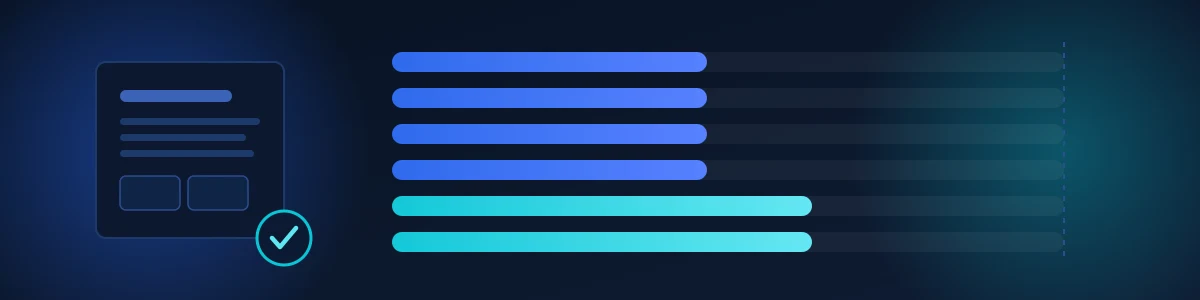
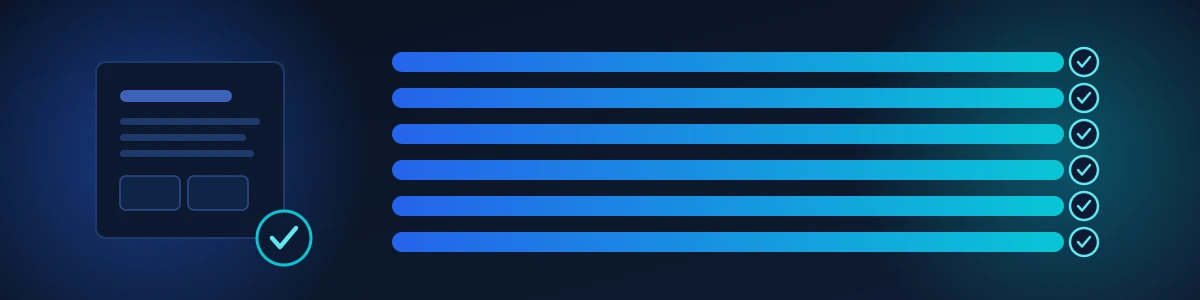
SEO-POS-1 S5, revisión: quita el reparto de puntos, deja las seis dimensiones
Founder review on the first draft: publish the six dimensions and their
behavioural thresholds (title 15-70 chars, description 50-160, freshness
180/540 days, 300 visible words, one h1, two h2 minimum), but not the point
allocation between them. That split is product methodology, not a public best
practice, and giving it away hands a competitor the scoring formula for
nothing the reader didn't already get from the six named dimensions.

Removed every "— N puntos" from section titles and body copy, including the
freshness decay example (15→8→0) and the 85/100 rescaling numbers in the
undated-page section, which is rewritten to explain the exclude-and-rescale
method without citing the actual point counts. Same correction applied to the
posts.ts description, the content-calendar note, the plan's C5 row, and log
§68 (rewritten in place rather than superseded — the PR hasn't merged, so
nobody else's session has treated the old version as settled fact).

The cover SVG encoded the real weights visually (bar width proportional to
points), so it leaked the same information the text no longer states. Redrawn
with six equal-width bars, each with its own checkmark, and re-rasterized.

Added a permanent guard in article-recipes.test.ts: no MDX pattern stops a
future session from reintroducing "— 15 puntos" in a section title when
editing this piece or copying its pattern for a new one, so a text-match test
now fails on any point count in a section heading or a 100/85-point reference.
[…]

Changed region(s): [[0.3083, 0.15, 0.925, 0.87]]

diff --git a/lib/blog/article-recipes.test.ts b/lib/blog/article-recipes.test.ts
@@ -318,3 +318,30 @@ describe("cada artículo enlaza a su propio cluster", () => {
     });
   }
 });
+
+/**
+ * SEO-POS-1 Fase C, S5, revisión (log §68): el borrador de
+ * que-es-una-auditoria-geo publicaba el reparto de puntos real de
+ * `lib/web-audit/page-checks.ts` (15/15/15/15/20/20). El fundador decidió
+ * que eso es metodología del producto, no buena práctica pública, y pidió
+ * quitarlo — dimensiones y umbrales de comportamiento sí, reparto de puntos
+ * no.
+ *
+ * Nada impedía que una sesión futura, al tocar este artículo o al copiar su
+ * patrón para uno nuevo, reintrodujera "— 15 puntos" en un título de sección.
+ * No hay compilador que lo pille: es MDX, y el número encajaría con
+ * naturalidad al lado de cada dimensión. Este test es la memoria que una
+ * revisión de founder necesita para no perderse en el siguiente refresco.
+ */
+describe("que-es-una-auditoria-geo no publica el reparto de puntos del producto", () => {
+  const source = readArticle("que-es-una-auditoria-geo");
+
+  it("ninguna sección lleva un recuento de puntos en el título", () => {
+    expect(source).not.toMatch(/—\s*\d+\s*puntos/i);
+  });
+
+  it("no afirma un total sobre 100 ni un subtotal parcial como 85", () => {
+    expect(source).not.toMatch(/\bsobre\s+100\b/i);
+    expect(source).not.toMatch(/\b85\s*puntos\b/i);
+  });
+});

diff --git a/lib/blog/posts.ts b/lib/blog/posts.ts
@@ -181,7 +181,7 @@ export const BLOG_POSTS: BlogPost[] = [
     slug: "que-es-una-auditoria-geo",
     title: "Qué es una auditoría GEO (y el checklist para hacerla tú mismo)",
     description:
-      "Una auditoría SEO pregunta si puedes posicionar; una GEO, si te pueden citar. Las seis dimensiones que se revisan, con sus pesos reales sobre 100, y un checklist de trece puntos para pasarlo a mano.",
+      "Una auditoría SEO pregunta si puedes posicionar; una GEO, si te pueden citar. Las seis dimensiones que se revisan, con sus umbrales exactos, y un checklist de trece puntos para pasarlo a mano.",
     datePublished: "2026-08-13",
     coverIcon: "check",
     coverImage: "/blog/que-es-una-auditoria-geo/cover.webp",

diff --git a/docs/brand/design-decisions-log.md b/docs/brand/design-decisions-log.md
@@ -6415,34 +6415,39 @@ quedan marcadas para una pasada con este mismo encuadre.
 
 ---
 
-## 68. Publicar los pesos de la auditoría, no solo el resultado (SEO-POS-1, S5, 2026-08-13)
+## 68. Las seis dimensiones sí, los pesos no: dónde está la línea (SEO-POS-1, S5, 2026-08-13)
 
 **Pieza.** `/blog/que-es-una-auditoria-geo`, cluster `playbooks`. Cubre el
 cluster de keywords nº 5 del plan y enlaza la feature real de auditoría web.
 
-**La decisión de fondo: publicar el desglose.** El artículo no da una lista
-genérica de buenas prácticas — publica **los pesos reales** de
-`lib/web-audit/page-checks.ts`: datos estructurados 15, formato de respuesta
-15, metadatos 15, frescura 15, indexabilidad 20, citabilidad 20, con los
-umbrales exactos de cada sub-comprobación (título 15-70 caracteres, descripción
-50-160, frescura 180/540 días, 300 palabras visibles, un solo `<h1>`, dos
-`<h2>` mínimo).
+**Primera versión, y por qué se corrigió.** El borrador inicial publicaba **los
+pesos reales** de `lib/web-audit/page-checks.ts` — datos estructurados 15,
+formato de respuesta 15, metadatos 15, frescura 15, indexabilidad 20,
+citabilidad 20 — con el argumento de que una puntuación cuyo reparto no se
+enseña es un número que hay que creerse. El fundador lo revisó y decidió lo
+contrario: publicar las seis dimensiones y sus umbrales de comportamiento, pero
+no el reparto de puntos exacto entre ellas — es metodología del producto, y
+enseñarla entera se la regala a cualquier competidor en una tarde sin que el
+lector gane nada que no tuviera ya con las seis dimensiones nombradas.
 
-Enseñarlos tiene un coste evidente —cualquiera puede replicar la comprobación
-sin pagarnos— y se asume a propósito. Una puntuación cuyo reparto no se enseña
-es un número que hay que creerse, y el argumento entero de esta categoría es
-que el cliente deje de creerse números. Además, lo que se puede replicar a mano
-es la auditoría de **una** página; el producto la pasa sobre la web entera y la
-cruza con la medición en motores, que es donde está el trabajo real.
+**Dónde queda la línea, en la práctica.** Se publican los **umbrales de
+comportamiento** — título 15-70 caracteres, descripción 50-160, frescura
+180/540 días, 300 palabras visibles, un solo `<h1>`, dos `<h2>` mínimo — porque
+son buenas prácticas verificables por cualquiera con el código fuente delante,
+no una ventaja competitiva. No se publica el **reparto de puntos** entre
+dimensiones ni entre sub-comprobaciones, ni en el texto ni en la portada: la
+primera versión de la imagen codificaba el peso real en la anchura de cada
+barra, así que se rehízo con las seis barras iguales antes de publicar.
 
 **Lo que separa esta pieza de un post de checklist cualquiera:** la sección
-sobre la página sin fecha. Puntuar 0 de frescura cuando no se encuentra ninguna
-fecha convierte una *ausencia de dato* en un *veredicto negativo*, así que el
-score se calcula sobre los 85 puntos restantes y se reescala a 100. Es una
-decisión de método real del producto, no una opinión, y explicarla demuestra
-criterio en vez de afirmarlo. Se generaliza en el artículo a la regla que ya
-rige `global-score.ts`: un componente sin valor se excluye de la media y se
-dice, nunca se sustituye por cero.
+sobre la página sin fecha. Puntuar la frescura como cero cuando no se encuentra
+ninguna fecha convierte una *ausencia de dato* en un *veredicto negativo*, así
+que esa dimensión se excluye del cálculo y el resto se reescala a 100 — sin
+citar el número de puntos que se excluyen. Es una decisión de método real del
+producto, no una opinión, y explicarla demuestra criterio en vez de afirmarlo.
+Se generaliza en el artículo a la regla que ya rige `global-score.ts`: un
+componente sin valor se excluye de la media y se dice, nunca se sustituye por
+cero.
 
 **Declara dónde acaba, y eso es lo que la hace citable.** Una auditoría técnica
 dice si tu página *puede* ser citada, no si *lo es*. Sin esa frase el artículo
@@ -6458,9 +6463,9 @@ dónde acaba la auditoría, y concede sobre nuestro propio producto, no a favor
 de un competidor.
 
 **Portada.** SVG dibujado en el repo y rasterizado a WebP (§47: un `og:image`
-en SVG deja la tarjeta social en blanco). No es decorativa: la anchura de cada
-barra es proporcional a los puntos reales de esa dimensión, así que la imagen
-es el mismo dato que el artículo (ADR 0026, "ningún visual es decorativo").
+en SVG deja la tarjeta social en blanco). Seis barras de igual anchura, cada
+una con su propia marca de comprobación — deliberadamente sin variar tamaños
+entre ellas, por el mismo motivo que el texto no reparte puntos.
 
 **Descubribilidad:** SSOT del blog, fixture del self-check y journey del
 piloto, los tres en este PR — lo exige el guardián de §62.

diff --git a/docs/content-calendar.md b/docs/content-calendar.md
@@ -201,22 +201,21 @@ describen por estructura de coste (módulo + suite), sin cifra cerrada, porque
 las fuentes públicas se contradicen entre sí.
 
 **S5 — hecho (2026-08-13).** `/blog/que-es-una-auditoria-geo`, cluster
-`playbooks`. La pieza publica **los pesos reales** de la auditoría técnica
-(`lib/web-audit/page-checks.ts`), no una lista genérica de buenas prácticas:
-datos estructurados 15, formato de respuesta 15, metadatos 15, frescura 15,
-indexabilidad 20 y citabilidad 20, con los umbrales exactos de cada
-sub-comprobación (título 15-70 caracteres, descripción 50-160, frescura
-180/540 días, 300 palabras visibles). Publicar el desglose es la decisión de
-fondo: una puntuación cuyo reparto no se enseña es un número que hay que
-creerse, y es justo lo que esta página reprocha implícitamente al resto de la
-categoría.
+`playbooks`. Publica las **seis dimensiones** de la auditoría técnica
+(`lib/web-audit/page-checks.ts`) con sus umbrales exactos de comportamiento
+—título 15-70 caracteres, descripción 50-160, frescura 180/540 días, 300
+palabras visibles, un solo `<h1>`, dos `<h2>` mínimo— pero **no el reparto de
+puntos entre ellas**: el borrador inicial sí los publicaba y el fundador
+decidió lo contrario, porque es metodología del producto y regalarla no le da
+al lector nada que no tuviera ya con las seis dimensiones nombradas. Detalle de
+la corrección: log §68.
 
 **Lo que la diferencia de un post de checklist cualquiera** es la sección
-sobre la página sin fecha: puntuar 0 de frescura cuando no se encuentra
-ninguna fecha convierte una ausencia de dato en un veredicto negativo, así que
-el score se calcula sobre los 85 puntos restantes y se reescala. Es una
-decisión de método real del producto, y explicarla demuestra criterio en vez
-de afirmarlo.
+sobre la página sin fecha: puntuar la frescura como cero cuando no se
+encuentra ninguna fecha convierte una ausencia de dato en un veredicto
+negativo, así que esa dimensión se excluye del cálculo y el resto se reescala.
+Es una decisión de método real del producto, y explicarla demuestra criterio
+en vez de afirmarlo.
 
 **Y declara dónde acaba:** una auditoría técnica dice si tu página *puede* ser
 citada, no si *lo es*. Esa segunda pregunta solo se responde preguntando a los

diff --git a/docs/seo-positioning-plan.md b/docs/seo-positioning-plan.md
@@ -244,7 +244,7 @@ pieza sigue siendo un PR con brief de `seo-geo-research`, redacción de
 | C2 | ✅ **Hecho (2026-08-10)** — `/comparativas/genscore-vs-profound`. Precio de Profound sin cifra fija a propósito: su web ya no lo publica y las fuentes de terceros se contradicen. Detalle: `docs/content-calendar.md`, log §58 | 2 | C/comparativas |
 | C3 | ✅ **Hecho (2026-08-12)** — `/comparativas/alternativas-a-otterly`. Organizada por el límite que empuja a buscar alternativa (tope de prompts, motores como add-on, ejecución, idioma), no por ranking. Reencuadrada tras revisión del fundador (log §67): posiciona en vez de arbitrar, cada ventaja del competidor va con el contexto de a quién le sirve, y cada alternativa —Genscore incluida— declara dónde no llega, con test que exige por nombre nuestros límites reales. Detalle: `docs/content-calendar.md`, log §66 y §67 | 2 | C/comparativas |
 | C4 | Refresco + ampliación de "Mejores herramientas GEO en español" (añadir CreceRank, Trendsights, Mentio — los rivales reales del mercado ES; honestidad como siempre: filas donde ganan ellos) | 3 | C/comparativas |
-| C5 | ✅ **Hecho (2026-08-13)** — `/blog/que-es-una-auditoria-geo`. Publica los pesos reales de `page-checks.ts` (15/15/15/15/20/20) con sus umbrales, un checklist de 13 puntos ejecutable a mano sobre el código fuente, y declara dónde acaba una auditoría técnica. Detalle: `docs/content-calendar.md`, log §68 | 5 | B/playbooks |
+| C5 | ✅ **Hecho (2026-08-13)** — `/blog/que-es-una-auditoria-geo`. Publica las seis dimensiones de `page-checks.ts` con sus umbrales exactos, sin el reparto de puntos (revisión del fundador: es metodología, no buena práctica), un checklist de 13 puntos ejecutable a mano sobre el código fuente, y declara dónde acaba una auditoría técnica. Detalle: `docs/content-calendar.md`, log §68 | 5 | B/playbooks |
 | C6 | "Métricas GEO: qué medir y qué no" — refuerza el pilar medicion; define vocabulario citable | 6 | B/medicion |
 | C7 | "Cómo aparecer en Perplexity" | 7 | B/playbooks |
 | C8 | "Cómo medir en GA4 el tráfico que llega desde ChatGPT" | 8 | B/medicion |
